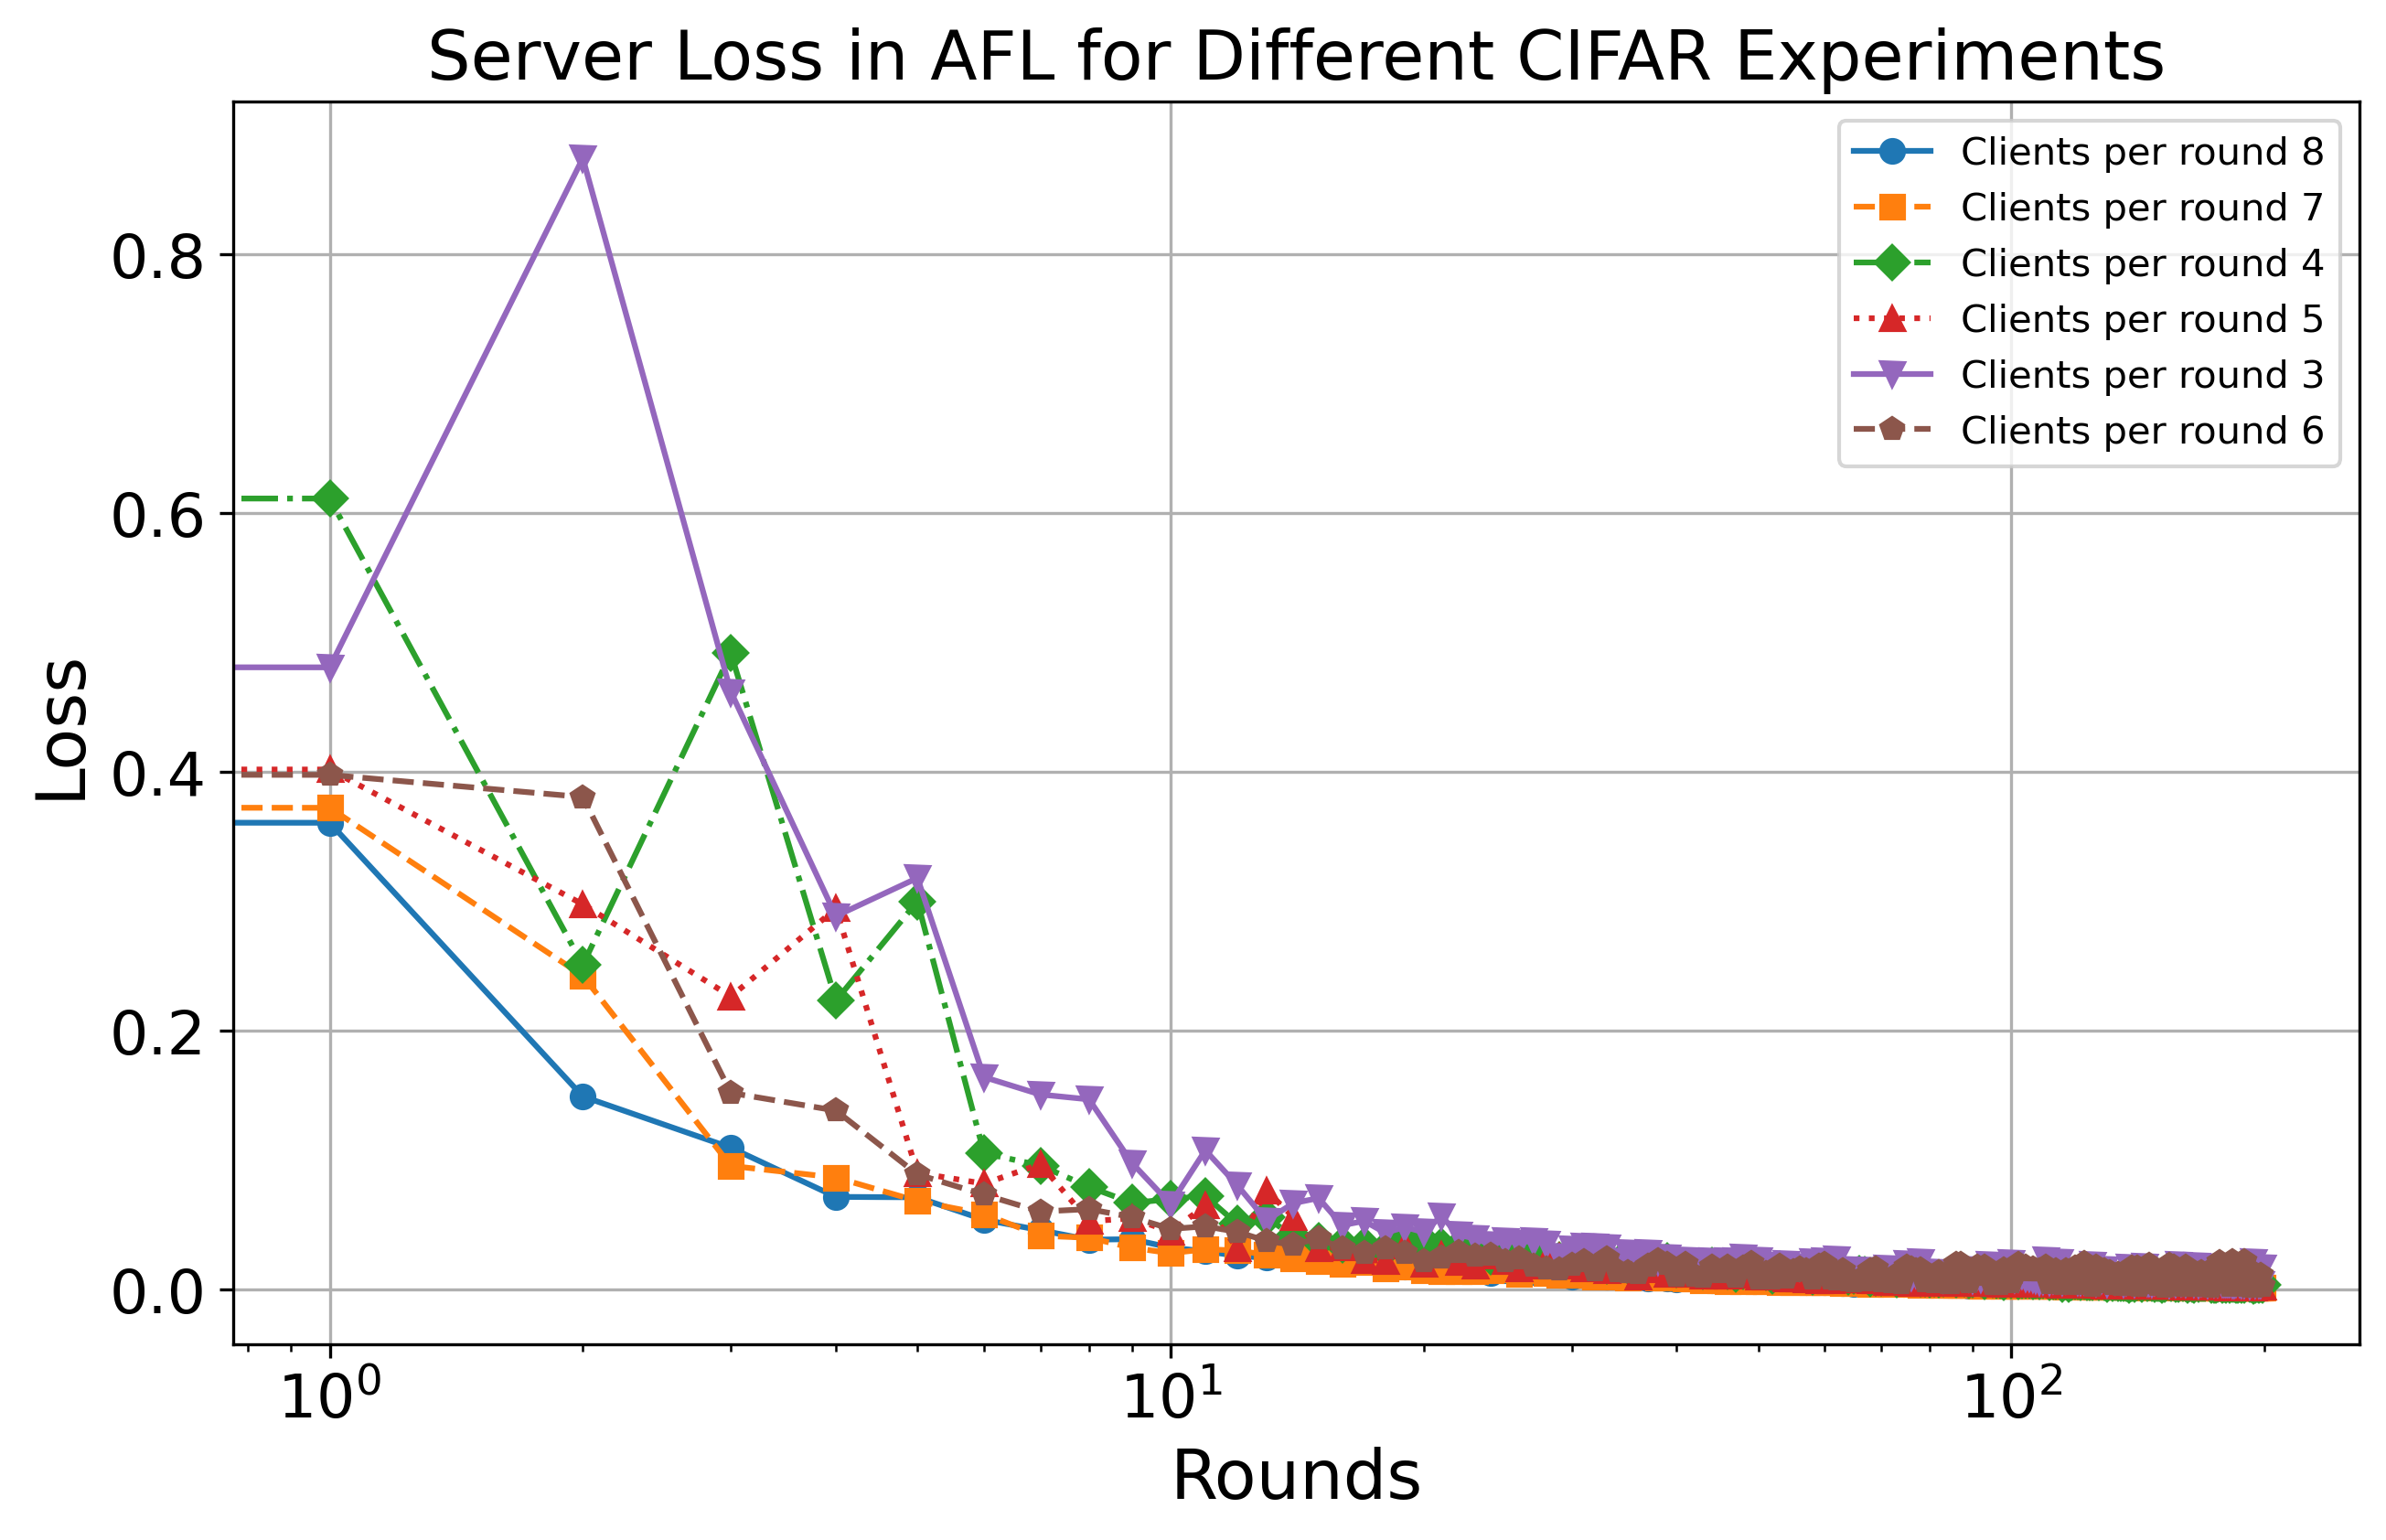
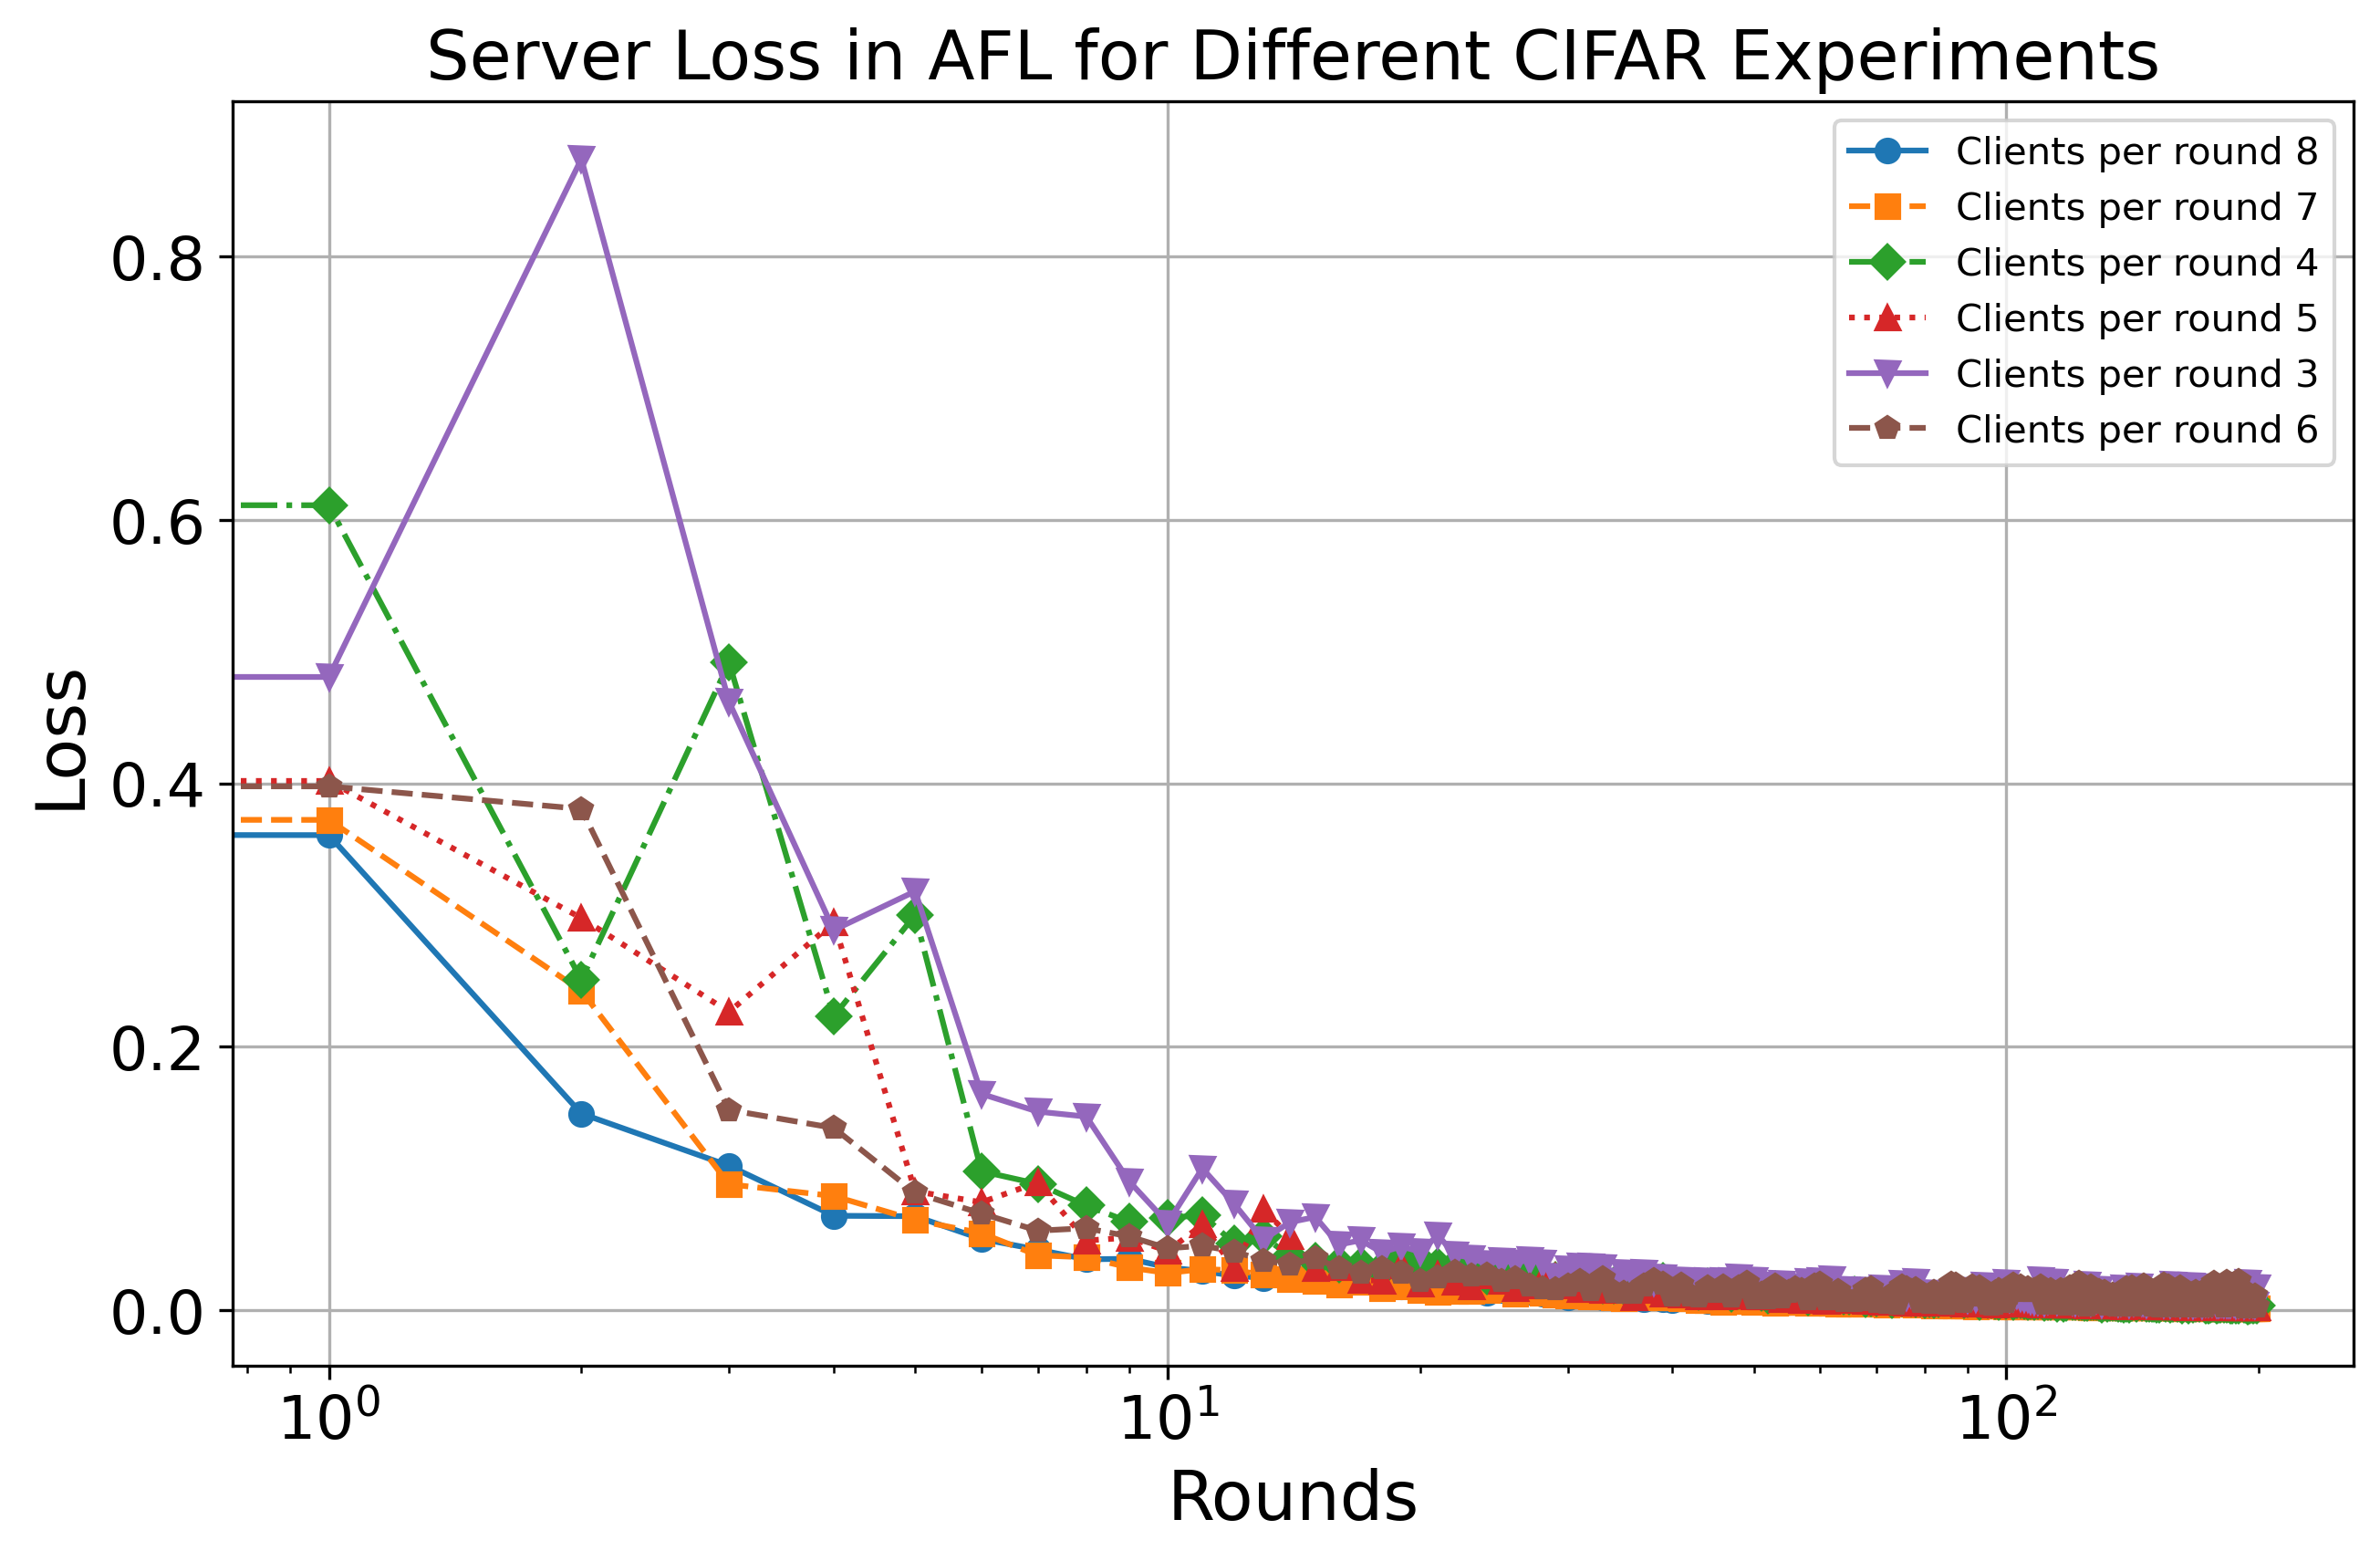
renaming, extra work, trimming, readme update on October 20, 2025

diff --git a/src/compare_rafl_results.py b/src/compare_rafl_results.py
@@ -1,0 +1,267 @@
+#!/usr/bin/env python3
+# -*- coding: utf-8 -*-
+
+"""
+Aggregate *_updated runs and render figures matching the LaTeX includes.
+
+Creates:
+  images/test_loss_{ds}.png
+  images/test_acc_{ds}.png
+  images/server_training_loss_{ds}.png
+  images/zeta_t_{ds}.png           (if available, typically for RAFL)
+  images/gamma_t_{ds}.png          (if available)
+  images/tau_bar_{ds}.png          (if available)
+  images/nonconvex_{ds}_server_losses_comparison_with_rafl.png
+"""
+
+import os, re, json, glob, warnings
+from typing import Dict, List, Tuple, Optional
+import numpy as np
+import matplotlib.pyplot as plt
+
+# -----------------------------
+# Paths
+# -----------------------------
+BASE_DIR = os.path.expanduser(
+    "~/Documents/ReSTEP/Robust_AFL_non_convex/Robust_AFL_non_convex_non_iid-main/src/results_rafl"
+)
+IMG_DIR = os.path.join(os.path.dirname(BASE_DIR), "images")
+os.makedirs(IMG_DIR, exist_ok=True)
+
+# -----------------------------
+# Helpers
+# -----------------------------
+DATASET_ALIASES = {
+    "mnist": ["mnist"],
+    "fashion_mnist": ["fashion_mnist", "fmnist", "fashion-mnist", "fashionmnist"],
+    "cifar": ["cifar", "cifar10", "cifar-10"],
+}
+
+def infer_method(run_name: str) -> Optional[str]:
+    rn = run_name.lower()
+    if rn.startswith("brafl"):
+        return "Baseline RAFL"
+    if rn.startswith("async"):
+        return "AFL"
+    if rn.startswith("rafl"):
+        return "RAFL"
+    # sometimes synchronous baselines are named like 'cifar_clients_...'
+    if rn.startswith("cifar") or rn.startswith("mnist") or rn.startswith("fashion") or rn.startswith("fmnist"):
+        return "Synchronous FL"
+    return None
+
+def infer_dataset(run_name: str) -> Optional[str]:
+    rn = run_name.lower()
+    for canonical, toks in DATASET_ALIASES.items():
+        for t in toks:
+            if re.search(rf"(?:^|[_\-]){re.escape(t)}(?:[_\-]|$)", rn):
+                return canonical
+    return None
+
+def list_updated_dirs(base_dir: str) -> List[str]:
+    all_dirs = [d for d in glob.glob(os.path.join(base_dir, "*")) if os.path.isdir(d)]
+    return sorted([d for d in all_dirs if os.path.basename(d).endswith("_updated") or "_updated_" in os.path.basename(d)])
+
+def load_npy(path: str) -> Optional[np.ndarray]:
+    try:
+        if os.path.isfile(path):
+            arr = np.load(path, allow_pickle=False)
+            if isinstance(arr, np.ndarray) and arr.size > 0:
+                return arr.astype(float)
+    except Exception as e:
+        warnings.warn(f"Failed loading {path}: {e}")
+    return None
+
+def load_json(path: str) -> Optional[dict]:
+    try:
+        if os.path.isfile(path):
+            with open(path, "r", encoding="utf-8") as f:
+                return json.load(f)
+    except Exception as e:
+        warnings.warn(f"Failed reading {path}: {e}")
+    return None
+
+def align_stack(series_list: List[np.ndarray]) -> Optional[np.ndarray]:
+    series_list = [s for s in series_list if s is not None and len(s) > 0]
+    if not series_list:
+        return None
+    T = min(len(s) for s in series_list)
+    if T == 0:
+        return None
+    return np.stack([s[:T] for s in series_list], axis=0)  # (N, T)
+
+def mean_ci(a2d: np.ndarray, z: float = 1.96) -> Tuple[np.ndarray, np.ndarray, np.ndarray]:
+    m = np.nanmean(a2d, axis=0)
+    n = a2d.shape[0]
+    if n > 1:
+        s = np.nanstd(a2d, axis=0, ddof=1)
+        half = z * s / np.sqrt(n)
+        lo, hi = m - half, m + half
+    else:
+        lo = hi = m.copy()
+    return m, lo, hi
+
+def plot_metric(ax, x, stats_by_method: Dict[str, Tuple[np.ndarray, np.ndarray, np.ndarray]], title: str, ylabel: str):
+    for method, (m, lo, hi) in stats_by_method.items():
+        ax.plot(x, m, label=method)
+        if hi is not None and lo is not None:
+            ax.fill_between(x, lo, hi, alpha=0.2)
+    ax.set_title(title)
+    ax.set_xlabel("Rounds")
+    ax.set_ylabel(ylabel)
+    ax.grid(True, alpha=0.3)
+    ax.legend()
+
+# -----------------------------
+# Collect runs
+# -----------------------------
+run_dirs = list_updated_dirs(BASE_DIR)
+if not run_dirs:
+    print(f"No *_updated runs found in {BASE_DIR}")
+    raise SystemExit(0)
+
+runs = []
+for rd in run_dirs:
+    name = os.path.basename(rd)
+    dataset = infer_dataset(name) or "unknown"
+    method = infer_method(name) or "unknown"
+    test_loss = load_npy(os.path.join(rd, "test_loss.npy"))
+    test_acc  = load_npy(os.path.join(rd, "test_acc.npy"))
+    server_losses = load_npy(os.path.join(rd, "server_losses.npy"))  # used as "server loss proxy"
+    rjson = load_json(os.path.join(rd, "rafl_metrics.json"))  # optional
+
+    zeta = rjson.get("zeta_t") if isinstance(rjson, dict) else None
+    gamma = rjson.get("gamma_t") if isinstance(rjson, dict) else None
+    taubar = rjson.get("tau_bar") if isinstance(rjson, dict) else None
+    # convert lists → np arrays if present
+    zeta  = np.asarray(zeta, dtype=float) if isinstance(zeta, (list, tuple)) else None
+    gamma = np.asarray(gamma, dtype=float) if isinstance(gamma, (list, tuple)) else None
+    taubar= np.asarray(taubar, dtype=float) if isinstance(taubar, (list, tuple)) else None
+
+    runs.append({
+        "name": name,
+        "dir": rd,
+        "dataset": dataset,
+        "method": method,
+        "test_loss": test_loss,
+        "test_acc": test_acc,
+        "server_losses": server_losses,
+        "zeta_t": zeta,
+        "gamma_t": gamma,
+        "tau_bar": taubar,
+    })
+
+# -----------------------------
+# Aggregate per (dataset, method)
+# -----------------------------
+by_ds_method: Dict[Tuple[str, str], Dict[str, List[np.ndarray]]] = {}
+for r in runs:
+    key = (r["dataset"], r["method"])
+    by_ds_method.setdefault(key, {"test_loss": [], "test_acc": [], "server_losses": [], "zeta_t": [], "gamma_t": [], "tau_bar": []})
+    for k in ["test_loss", "test_acc", "server_losses", "zeta_t", "gamma_t", "tau_bar"]:
+        if r[k] is not None:
+            by_ds_method[key][k].append(r[k])
+
+datasets = sorted({r["dataset"] for r in runs if r["dataset"] != "unknown"})
+
+# -----------------------------
+# Render per-dataset figures (Fig. 1 layout)
+# -----------------------------
+for ds in datasets:
+    # 1) test_loss
+    stats = {}
+    T_min = None
+    for method in sorted({k[1] for k in by_ds_method.keys() if k[0] == ds}):
+        a2d = align_stack(by_ds_method.get((ds, method), {}).get("test_loss", []))
+        if a2d is not None:
+            m, lo, hi = mean_ci(a2d)
+            T_min = len(m) if T_min is None else min(T_min, len(m))
+            stats[method] = (m, lo, hi)
+    if stats:
+        fig, ax = plt.subplots(figsize=(7, 4))
+        x = np.arange(1, list(stats.values())[0][0].shape[0] + 1)
+        plot_metric(ax, x, stats, f"{ds.upper()} — Test loss per round", "Test loss")
+        fig.tight_layout()
+        fig.savefig(os.path.join(IMG_DIR, f"test_loss_{ds}.png"), dpi=200, bbox_inches="tight")
+        plt.close(fig)
+
+    # 2) test_acc
+    stats = {}
+    for method in sorted({k[1] for k in by_ds_method.keys() if k[0] == ds}):
+        a2d = align_stack(by_ds_method.get((ds, method), {}).get("test_acc", []))
+        if a2d is not None:
+            m, lo, hi = mean_ci(a2d)
+            stats[method] = (m, lo, hi)
+    if stats:
+        fig, ax = plt.subplots(figsize=(7, 4))
+        x = np.arange(1, list(stats.values())[0][0].shape[0] + 1)
+        plot_metric(ax, x, stats, f"{ds.upper()} — Test accuracy per round", "Test accuracy")
+        fig.tight_layout()
+        fig.savefig(os.path.join(IMG_DIR, f"test_acc_{ds}.png"), dpi=200, bbox_inches="tight")
+        plt.close(fig)
+
+    # 3) server loss proxy (use server_losses.npy)
+    stats = {}
+    for method in sorted({k[1] for k in by_ds_method.keys() if k[0] == ds}):
+        a2d = align_stack(by_ds_method.get((ds, method), {}).get("server_losses", []))
+        if a2d is not None:
+            m, lo, hi = mean_ci(a2d)
+            stats[method] = (m, lo, hi)
+    if stats:
+        fig, ax = plt.subplots(figsize=(7, 4))
+        x = np.arange(1, list(stats.values())[0][0].shape[0] + 1)
+        plot_metric(ax, x, stats, f"{ds.upper()} — Server loss proxy", "Server loss (proxy)")
+        fig.tight_layout()
+        fig.savefig(os.path.join(IMG_DIR, f"server_training_loss_{ds}.png"), dpi=200, bbox_inches="tight")
+        plt.close(fig)
+
+    # 4–6) RAFL extras (if present) — we average ONLY over RAFL runs
+    for key, label in [("zeta_t", "Composite step $\\zeta_t$"),
+                       ("gamma_t", "Server step $\\gamma_t$"),
+                       ("tau_bar", "Weighted staleness $\\bar\\tau_t$")]:
+        a2d = align_stack(by_ds_method.get((ds, "RAFL"), {}).get(key, []))
+        if a2d is None:
+            continue
+        m, lo, hi = mean_ci(a2d)
+        fig, ax = plt.subplots(figsize=(7, 4))
+        x = np.arange(1, len(m) + 1)
+        ax.plot(x, m, label="RAFL")
+        ax.fill_between(x, lo, hi, alpha=0.2)
+        ax.set_title(f"{ds.upper()} — {label}")
+        ax.set_xlabel("Rounds")
+        ax.set_ylabel(label.replace("$", ""))
+        ax.grid(True, alpha=0.3)
+        ax.legend()
+        fig.tight_layout()
+        fig.savefig(os.path.join(IMG_DIR, f"{key}_{ds}.png"), dpi=200, bbox_inches="tight")
+        plt.close(fig)
+
+    # -------------------------
+    # Comparison figure (Fig. 2 style): server loss across methods with log-x
+    # -------------------------
+    stats_cmp = {}
+    for method in sorted({k[1] for k in by_ds_method.keys() if k[0] == ds}):
+        a2d = align_stack(by_ds_method.get((ds, method), {}).get("server_losses", []))
+        if a2d is not None:
+            m, lo, hi = mean_ci(a2d)
+            stats_cmp[method] = (m, lo, hi)
+    if stats_cmp:
+        fig, ax = plt.subplots(figsize=(7.5, 4.5))
+        # use 1..T to support log-x
+        T = list(stats_cmp.values())[0][0].shape[0]
+        x = np.arange(1, T + 1)
+        for method, (m, lo, hi) in stats_cmp.items():
+            ax.plot(x, m, label=method)
+            ax.fill_between(x, lo, hi, alpha=0.2)
+        ax.set_xscale("log")
+        ax.set_xlabel("Rounds (log scale)")
+        ax.set_ylabel("Server loss (proxy)")
+        ax.set_title(f"{ds.upper()} — Server loss comparison (Synchronous, AFL, RAFL)")
+        ax.grid(True, which="both", alpha=0.3)
+        ax.legend()
+        fig.tight_layout()
+        fig.savefig(os.path.join(IMG_DIR, f"nonconvex_{ds}_server_losses_comparison_with_rafl.png"),
+                    dpi=220, bbox_inches="tight")
+        plt.close(fig)
+
+print(f"Done. Figures saved under: {IMG_DIR}")